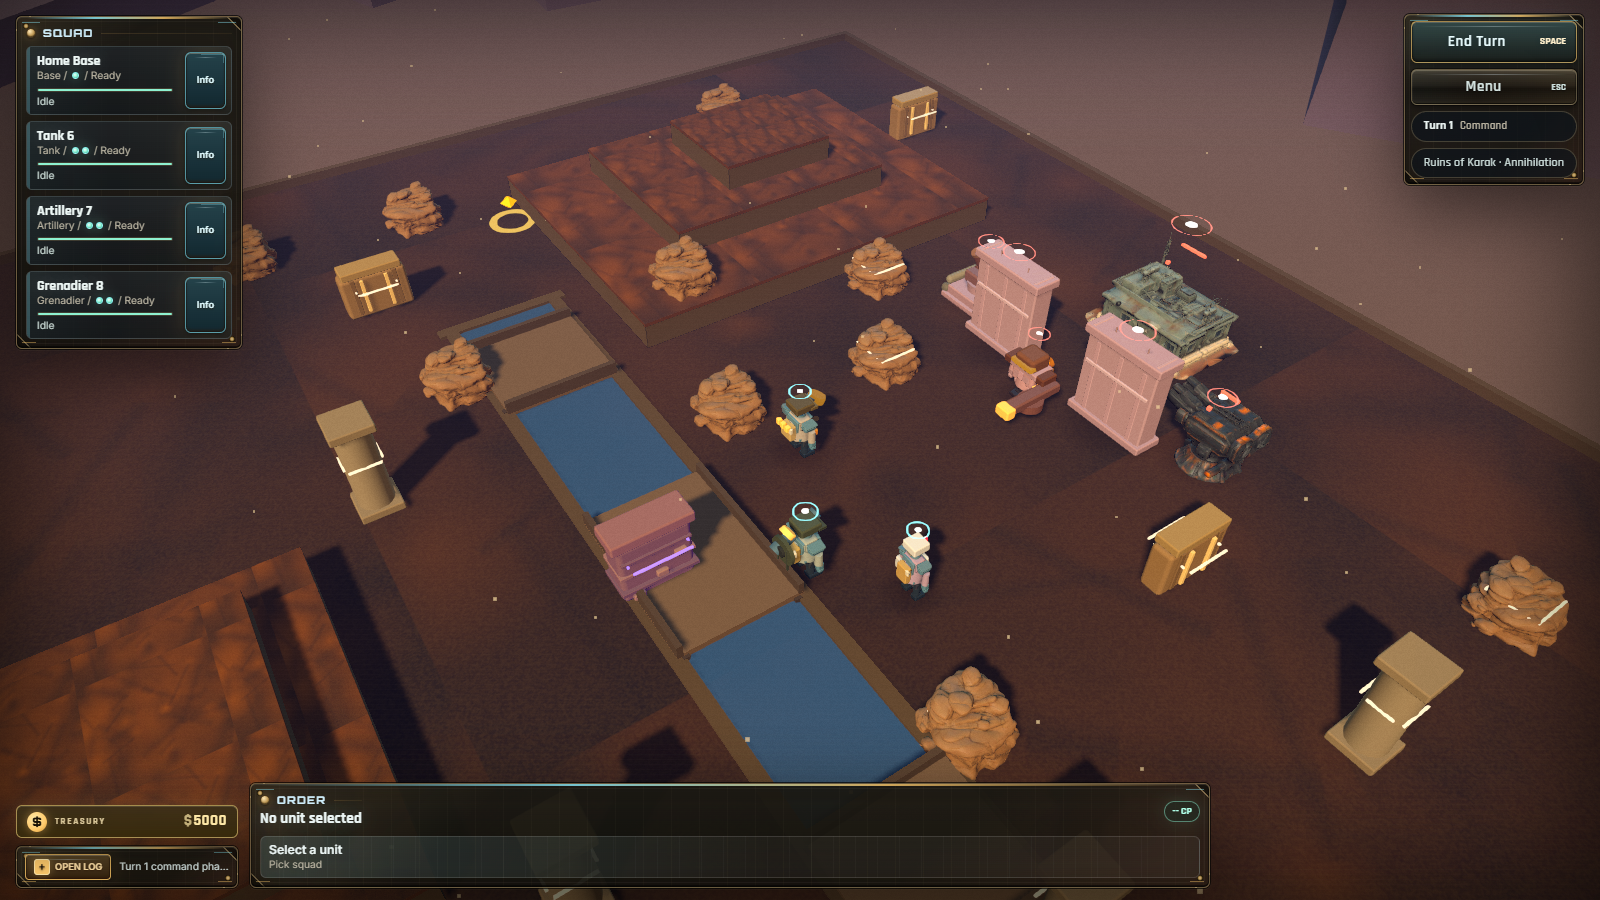
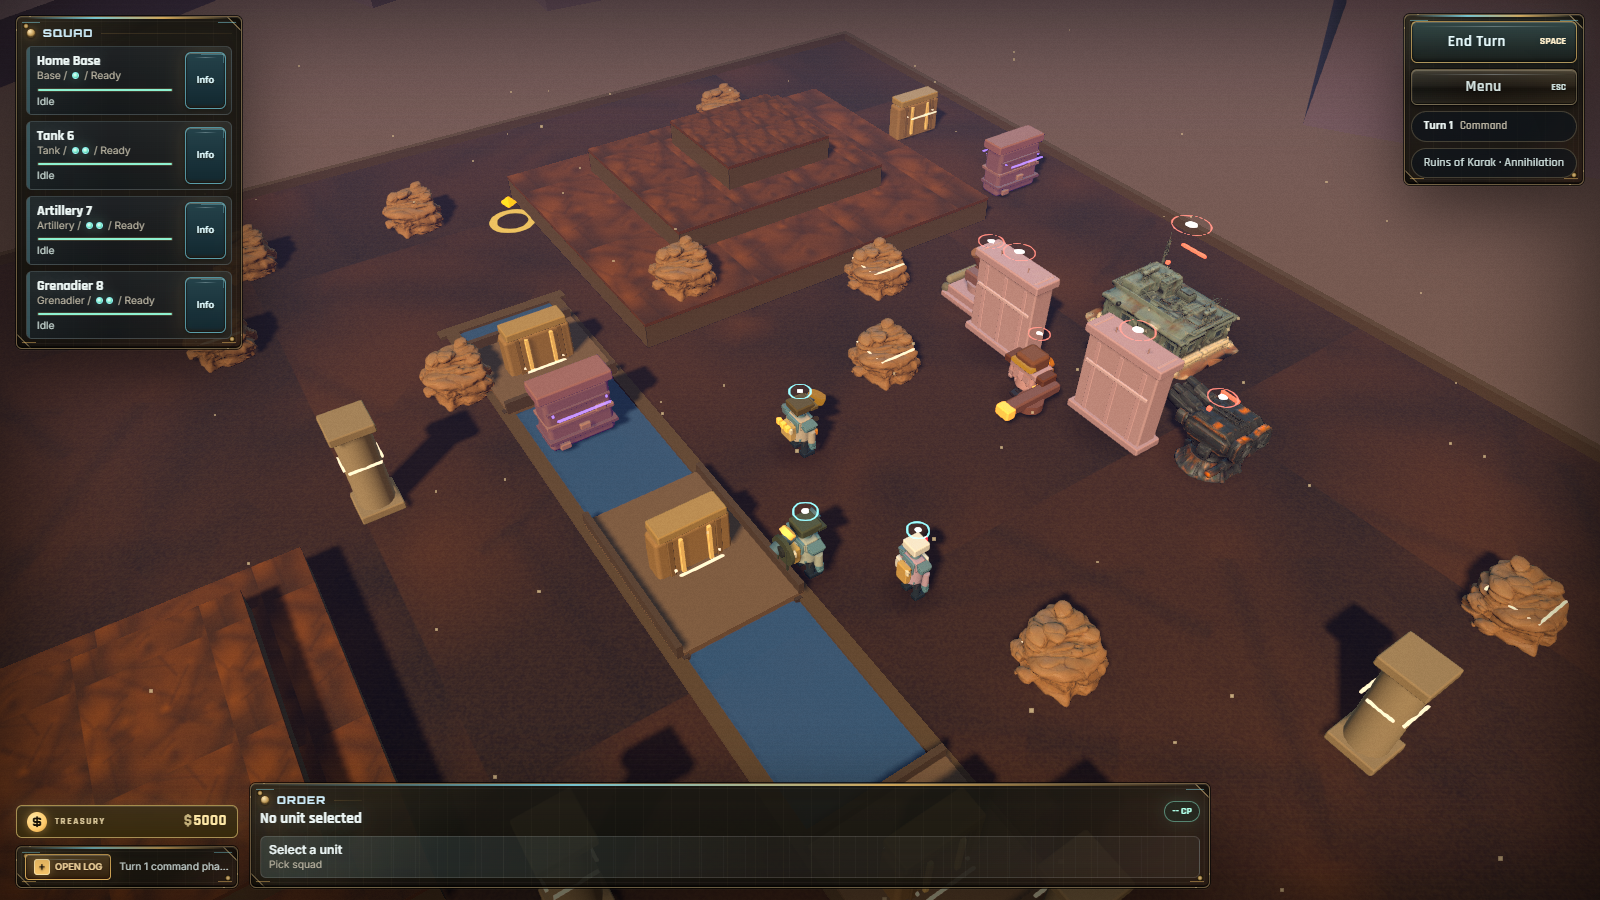
Destructible bridge spans, persisted, with a reachability guarantee
Bridges were pure terrain, so the most consequential destructible on the board
could not be destroyed. Every authored crossing now carries a span entity at its
centre; killing it drops that crossing for the rest of the battle. Ground units on
the far side have to find another way over or be airlifted; flyers never cared.
Spans are neutral, since a bridge belongs to whoever is standing on it, and tough
enough that dropping one is a deliberate investment rather than incidental splash.

The part that needed care is persistence. Terrain is a module singleton rebuilt
from the MapDef, so a destroyed span comes back on reload unless the loss is
recorded and re-applied -- the sim tracks dropped indices, serializes them, and
re-derives the active terrain from "map minus dropped" on configure and restore.
Restoring the list happens BEFORE the terrain is applied, or a reload silently
rebuilds the bridge a player spent a turn destroying. A new battle starts with
every span intact.

A span is walkable ground while it stands, so a unit can be standing on one when
it goes; anything caught in the resulting gap is moved to the nearest dry ground
rather than left in a state the movement rules call unreachable.

reachability.test.ts now drops EACH span on EACH bridged map in turn and re-floods
from the player base, so no crossing can be destroyed into an unwinnable map. That
is the assertion the original suite made about the state a map ships in, extended
[…]

diff --git a/game/src/game/sim.ts b/game/src/game/sim.ts
@@ -462,7 +462,7 @@ export class TacticalSim {
     } else {
       this.mapDef = init?.map ?? MAPS[0];
       this.mode = init?.mode ?? "destroy";
-      setActiveTerrain(this.mapDef.terrain);
+      this.applyTerrain();
       this.entities = createScenario(this.mapDef, this.mode);
     }
     this.modeState = this.buildModeState();
@@ -495,6 +495,53 @@ export class TacticalSim {
     this.factions[team] = faction;
   }
 
+  /**
+   * Bridge spans that have been destroyed this battle, as indices into the map's authored bridge
+   * list. Terrain is a module singleton rebuilt from the MapDef, so a dropped span would come back
+   * on reload unless the loss is recorded here and re-applied -- this is the state that makes
+   * bridge destruction a real, persistent consequence rather than a one-session visual.
+   */
+  private droppedBridges: number[] = [];
+
+  /** Re-derive the active terrain from the map minus whatever spans have been dropped. */
+  private applyTerrain(): void {
+    const authored = this.mapDef.terrain;
+    if (this.droppedBridges.length === 0 || !authored.bridges?.length) {
+      setActiveTerrain(authored);
+      return;
+    }
+    const gone = new Set(this.droppedBridges);
+    setActiveTerrain({ ...authored, bridges: authored.bridges.filter((_, i) => !gone.has(i)) });
+  }
+
+  /**
+   * Drop the bridge span covering a point. Ground units lose that crossing for the rest of the
+   * battle; flyers never cared. Returns the index dropped, or -1 when the point is not on a span.
+   */
+  dropBridgeAt(point: Vec2): number {
+    const bridges = this.mapDef.terrain.bridges ?? [];
+    const index = bridges.findIndex((r, i) =>
+      !this.droppedBridges.includes(i)
+      && point.x >= r.minX && point.x <= r.maxX && point.z >= r.minZ && point.z <= r.maxZ);
+    if (index < 0) return -1;
+    this.droppedBridges.push(index);
+    this.applyTerrain();
+    // Anything standing on the span goes into the water with it.
+    for (const entity of this.entities) {
+      if (!entity.status.alive || entity.flying || entity.kind === "cover") continue;
+      if (!pointInWater(entity.position)) continue;
+      entity.position = nearestDryPoint(entity.position);
+    }
+    this.effect("blast", point, point, 0x8a7f66, 0.9, 2.6);
+    this.pushLog("A bridge span collapses into the channel");
+    return index;
+  }
+
+  /** Which authored bridge spans are gone. */
+  bridgesDropped(): readonly number[] {
+    return this.droppedBridges;
+  }
+
   // `factions` is optional and defaults to PRESERVING the current pick, because configure() also
   // runs on reset() -- passing nothing must not silently drop the player back to the default.
   configure(map: MapDef, mode: ModeId, difficulty: Difficulty = this.difficulty, factions?: Partial<Record<Team, FactionId>>): void {
@@ -503,7 +550,10 @@ export class TacticalSim {
     this.mapDef = map;
     this.mode = mode;
     this.difficulty = difficulty;
-    setActiveTerrain(map.terrain);
+    // A new battle starts with every span intact.
+    this.droppedBridges = [];
+    this.mapDef = map;
+    this.applyTerrain();
     const fresh = createScenario(map, mode);
     this.entities.splice(0, this.entities.length, ...fresh);
     this.modeState = this.buildModeState();
@@ -1653,6 +1703,7 @@ export class TacticalSim {
       mode: this.mode,
       difficulty: this.difficulty,
       factions: this.factions,
+      droppedBridges: this.droppedBridges,
       turn: this.turn,
       economy: [...this.economy],
       entities: this.entities,
@@ -1676,6 +1727,7 @@ export class TacticalSim {
     try {
       const data = JSON.parse(raw) as {
         map: string; mode: ModeId; difficulty?: Difficulty; turn?: number; factions?: Partial<Record<Team, FactionId>>;
+        droppedBridges?: number[];
         economy: [Team, number][]; entities: CombatEntity[]; orders?: TacticalOrder[]; modeState: ModeState; troopSeq?: number;
         detonated?: string[]; toppled?: string[]; overwatch?: [string, number][]; overwatchFacing?: [string, number][];
         wrecked?: string[]; salvage?: [string, number][];
@@ -1684,8 +1736,11 @@ export class TacticalSim {
         pickups?: { id: string; x: number; z: number; amount: number }[];
       };
       const map = mapDef(data.map);
-      setActiveTerrain(map.terrain);
       this.mapDef = map;
+      // Restore dropped spans BEFORE the terrain is applied, or a reload silently rebuilds the
+      // bridge a player spent a turn destroying.
+      this.droppedBridges = (data.droppedBridges ?? []).filter((i) => Number.isInteger(i) && i >= 0);
+      this.applyTerrain();
       this.mode = data.mode;
       this.difficulty = data.difficulty ?? "normal";
       // Rebuilt as a fresh literal rather than assigned: guarantees key order (so serialize output
@@ -2989,6 +3044,13 @@ export class TacticalSim {
     ) {
       this.toppled.add(target.id);
       this.resolveTopple(actor, target);
+    }
+    // A destroyed span takes its crossing with it. This is the most consequential destructible on
+    // the board: ground units on the far side have to find another way across or be airlifted,
+    // and the loss persists through saves.
+    if (target.kind === "cover" && !target.status.alive && target.coverKind === "span" && !this.toppled.has(target.id)) {
+      this.toppled.add(target.id); // reuse the once-only ledger; it already serializes
+      this.dropBridgeAt(target.position);
     }
     // Battlefield scars: a killed vehicle burns out into a wreck — hard neutral cover
     // that also holds salvage money for whichever team parks a unit beside it.

diff --git a/game/src/game/bridges.test.ts b/game/src/game/bridges.test.ts
@@ -1,0 +1,112 @@
+import { afterEach, describe, expect, it } from "vitest";
+import { TacticalSim, mapDef } from "./sim";
+import { DEFAULT_TERRAIN, pointInWater, setActiveTerrain, terrainBridges } from "./terrain";
+
+// Dropping a bridge is the most consequential destructible on the board, and it is the one most
+// likely to break quietly: terrain is a module singleton rebuilt from the MapDef, so a destroyed
+// span comes back on reload unless the loss is recorded and re-applied. These pin that.
+const settle = (sim: TacticalSim): void => {
+  for (let t = 0; t < 40 && sim.phase === "resolve"; t += 0.05) sim.update(0.05);
+};
+
+/** A map with authored bridge crossings. */
+const BRIDGED = "karak";
+
+const staged = (): TacticalSim => {
+  const sim = new TacticalSim();
+  sim.configure(mapDef(BRIDGED), "destroy", "normal");
+  return sim;
+};
+
+describe("bridge spans", () => {
+  afterEach(() => setActiveTerrain(DEFAULT_TERRAIN));
+
+  it("puts a destructible span on every authored crossing", () => {
+    // Bridges used to be pure terrain, so the crossing could not be attacked at all.
+    const sim = staged();
+    const authored = mapDef(BRIDGED).terrain.bridges ?? [];
+    expect(authored.length).toBeGreaterThan(0);
+    const spans = sim.entities.filter((e) => e.coverKind === "span");
+    expect(spans.length).toBe(authored.length);
+    // And each sits on the crossing it represents: a span floating off its own bridge would drop
+    // the wrong one, or nothing.
+    for (const span of spans) {
+      const onABridge = authored.some((r) =>
+        span.position.x >= r.minX && span.position.x <= r.maxX
+        && span.position.z >= r.minZ && span.position.z <= r.maxZ);
+      expect(onABridge, `${span.id} is not on a bridge rect`).toBe(true);
+    }
+  });
+
+  it("a span is walkable ground until it is destroyed, and water afterwards", () => {
+    const sim = staged();
+    const span = sim.entities.find((e) => e.coverKind === "span")!;
+    const at = { ...span.position };
+    expect(pointInWater(at), "the crossing should be passable to begin with").toBe(false);
+
+    const before = terrainBridges().length;
+    expect(sim.dropBridgeAt(at)).toBeGreaterThanOrEqual(0);
+    expect(terrainBridges().length, "the span was not removed from the terrain").toBe(before - 1);
+    expect(pointInWater(at), "the gap left behind should block ground movement").toBe(true);
+  });
+
+  it("refuses to drop the same span twice, or empty water", () => {
+    const sim = staged();
+    const at = { ...sim.entities.find((e) => e.coverKind === "span")!.position };
+    expect(sim.dropBridgeAt(at)).toBeGreaterThanOrEqual(0);
+    expect(sim.dropBridgeAt(at), "dropped the same span twice").toBe(-1);
+    expect(sim.dropBridgeAt({ x: 999, z: 999 }), "dropped a span that is not there").toBe(-1);
+  });
+
+  it("does not leave a unit standing in the gap", () => {
+    // The span was walkable, so a unit can be standing ON it when it goes. Leaving it there puts a
+    // ground unit in water, a state the movement rules say is unreachable.
+    const sim = staged();
+    const span = sim.entities.find((e) => e.coverKind === "span")!;
+    const unit = sim.debugSpawn("soldier", "player", { ...span.position });
+    expect(pointInWater(unit.position)).toBe(false);
+    sim.dropBridgeAt({ ...span.position });
+    expect(pointInWater(unit.position), "a trooper was left standing in the channel").toBe(false);
+  });
+
+  it("keeps the crossing gone across a save and reload", () => {
+    // THE regression this file exists for. Terrain comes from the MapDef, so without persisting the
+    // loss a reload silently rebuilds the bridge a player spent a turn destroying.
+    const sim = staged();
+    const at = { ...sim.entities.find((e) => e.coverKind === "span")!.position };
+    sim.dropBridgeAt(at);
+    expect(sim.bridgesDropped().length).toBe(1);
+
+    const saved = sim.serialize();
+    expect(JSON.parse(saved).droppedBridges).toHaveLength(1);
+
+    const fresh = new TacticalSim();
+    expect(fresh.restore(saved)).toBe(true);
+    expect(fresh.bridgesDropped().length, "the drop did not survive the reload").toBe(1);
+    expect(pointInWater(at), "the bridge came back after loading").toBe(true);
+  });
+
+  it("restores every crossing when a new battle is configured", () => {
+    const sim = staged();
+    sim.dropBridgeAt({ ...sim.entities.find((e) => e.coverKind === "span")!.position });
+    const authored = (mapDef(BRIDGED).terrain.bridges ?? []).length;
+    sim.configure(mapDef(BRIDGED), "destroy", "normal");
+    expect(sim.bridgesDropped().length).toBe(0);
+    expect(terrainBridges().length).toBe(authored);
+  });
+
+  it("drops the crossing when the span is actually shot down", () => {
+    // End to end through the damage funnel rather than by calling dropBridgeAt directly.
+    const sim = staged();
+    const span = sim.entities.find((e) => e.coverKind === "span")!;
+    const at = { ...span.position };
+    const sapper = sim.debugSpawn("sapper", "player", { x: at.x - 3, z: at.z });
+    for (const part of span.parts) part.hp = 1; // this test is about the consequence, not the grind
+    sim.select(sapper.id);
+    expect(sim.queueShoot(span.id)).toBe(true);
+    sim.endTurn();
+    settle(sim);
+    expect(span.status.alive, "the span survived").toBe(false);
+    expect(pointInWater(at), "the span died but the crossing remained").toBe(true);
+  });
+});

diff --git a/game/src/game/scenario.ts b/game/src/game/scenario.ts
@@ -4,14 +4,37 @@ import type { ModeId } from "./modes";
 
 // A battle starts with NO units on the field — only each side's Home Base plus the map's
 // neutral cover and any capturable field structures. Both commanders deploy from turn one.
+/**
+ * A destructible span on every authored bridge crossing.
+ *
+ * Bridges were pure terrain, so there was nothing to shoot: the most consequential destructible on
+ * the board could not be destroyed. Each authored bridge rect now carries one span entity at its
+ * centre; killing it drops the crossing for the rest of the battle (see TacticalSim.dropBridgeAt).
+ * The entity is neutral -- a bridge belongs to whoever is standing on it.
+ */
+function createBridgeSpans(map: MapDef): CombatEntity[] {
+  const spans: CombatEntity[] = [];
+  const bridges = map.terrain.bridges ?? [];
+  for (let i = 0; i < bridges.length; i += 1) {
+    const r = bridges[i];
+    spans.push(createCover(
+      `span-${map.id}-${i}`,
+      "Bridge Span",
+      { x: (r.minX + r.maxX) / 2, z: (r.minZ + r.maxZ) / 2 },
+      { coverKind: "span" },
+    ));
+  }
+  return spans;
+}
+
 export function createScenario(map: MapDef = MAPS[0], mode: ModeId = "destroy"): CombatEntity[] {
   const playerBase = createBase("p-base-1", "Home Base", "player", { ...map.playerBase });
   // Last Stand has no enemy base — the threat is the waves themselves.
-  if (mode === "survival") return [playerBase, ...buildMapObjects(map), ...buildNeutralStructures(map)];
+  if (mode === "survival") return [playerBase, ...buildMapObjects(map), ...buildNeutralStructures(map), ...createBridgeSpans(map)];
   const enemyBase = createBase("e-base-1", "Relay Base", "enemy", { ...map.enemyBase });
   // The enemy commander begins with one doctrine researched so it can field variety early.
   enemyBase.unlockedTech = ["assault"];
-  return [playerBase, enemyBase, ...buildMapObjects(map), ...buildNeutralStructures(map)];
+  return [playerBase, enemyBase, ...buildMapObjects(map), ...buildNeutralStructures(map), ...createBridgeSpans(map)];
 }
 
 // Capturable neutral structures: derelict turrets and supply depots that flip to the

diff --git a/game/src/game/reachability.test.ts b/game/src/game/reachability.test.ts
@@ -1,5 +1,6 @@
 import { afterEach, describe, expect, it } from "vitest";
-import { MAPS } from "./maps";
+import { MAPS, mapDef } from "./maps";
+import { TacticalSim } from "./sim";
 import { DEFAULT_TERRAIN, TERRAIN_STEP, pointInWater, setActiveTerrain, terrainHeightAt } from "./terrain";
 
 // REACHABILITY.
@@ -97,3 +98,36 @@ describe("every map is winnable on foot", () => {
     });
   }
 });
+
+// DESTRUCTIBLE TERRAIN must not be able to make a map unwinnable. A player (or the AI) can drop any
+// bridge span, and every authored crossing is therefore a way to change the map's connectivity
+// mid-battle. This floods again after removing each span in turn -- the same assertion as above, but
+// for every state the map can actually reach rather than only the state it ships in.
+describe("dropping a bridge never strands a base", () => {
+  afterEach(() => setActiveTerrain(DEFAULT_TERRAIN));
+
+  for (const map of MAPS.filter((m) => (m.terrain.bridges?.length ?? 0) > 0)) {
+    const spans = map.terrain.bridges ?? [];
+    for (let index = 0; index < spans.length; index += 1) {
+      it(`${map.id}: span ${index} can be destroyed`, () => {
+        const sim = new TacticalSim();
+        sim.configure(mapDef(map.id), "destroy", "normal");
+        const rect = spans[index];
+        const dropped = sim.dropBridgeAt({ x: (rect.minX + rect.maxX) / 2, z: (rect.minZ + rect.maxZ) / 2 });
+        expect(dropped, "the span could not be dropped").toBeGreaterThanOrEqual(0);
+
+        const { seen, key } = flood(map);
+        const reachable = (p: { x: number; z: number }): boolean => {
+          for (let dx = -2; dx <= 2; dx += 1) {
+            for (let dz = -2; dz <= 2; dz += 1) {
+              if (seen.has(key({ x: p.x + dx * STEP * 4, z: p.z + dz * STEP * 4 }))) return true;
+            }
+          }
+          return false;
+        };
+        expect(reachable(map.enemyBase), `${map.id}: dropping span ${index} strands the enemy base`).toBe(true);
+      });
+    }
+  }
+});
+

diff --git a/game/src/game/maps.ts b/game/src/game/maps.ts
@@ -185,7 +185,13 @@ export function buildMapObjects(map: MapDef): CombatEntity[] {
     for (const o of placed) {
       if (dist(p, o) < o.r + r) return true;
     }
-    return steepHere(p) || pointInWater(p); // never drop cover into a water channel
+    // Never into a water channel, and never ONTO A CROSSING. Bridges are not water -- they are the
+    // walkable strip over it -- so scatter happily dropped crates on them, which both collided with
+    // the destructible span entity now sitting there and blocked the chokepoint the bridge exists to
+    // create. A crossing should be an open lane, contested by units rather than furniture.
+    if (steepHere(p) || pointInWater(p)) return true;
+    return (map.terrain.bridges ?? []).some((b) =>
+      p.x >= b.minX - r && p.x <= b.maxX + r && p.z >= b.minZ - r && p.z <= b.maxZ + r);
   };
 
   const add = (kind: CoverKind, p: Vec2): void => {
@@ -512,7 +518,10 @@ const RAW_MAPS: readonly MapDef[] = [
     signature: [
       { kind: "pillar", x: -5.5, z: 4.5, mirror: true },
       { kind: "pillar", x: -5.5, z: -4.5, mirror: true },
-      { kind: "cliff", x: -9, z: 0, mirror: true },
+      // Moved off z=0: the flooded ravine added to this map runs through x=-11..-8.5, and its
+      // centre crossing now sits here. A cliff face 0.9 units from a bridge span both overlapped it
+      // and walled off the very chokepoint the crossing exists to create.
+      { kind: "cliff", x: -9.5, z: 4.2, mirror: true },
       { kind: "rubble", x: -8, z: 7, mirror: true },
       { kind: "pillar", x: -10.5, z: -8.5, mirror: true },
       { kind: "rock", x: -16, z: 2.5, mirror: true },

diff --git a/game/src/game/damageModel.ts b/game/src/game/damageModel.ts
@@ -24,7 +24,8 @@ export type CoverKind =
   | "container"
   | "bunker"
   | "wreck"
-  | "depot";
+  | "depot"
+  | "span";
 export type PartRole = "core" | "head" | "weapon" | "mobility" | "armor" | "utility" | "volatile";
 export type AimMode = "center" | "head" | "weapon" | "mobility" | "utility" | "core" | "weakest";
 export type InfantryStance = "standing" | "crouched" | "prone";
@@ -795,6 +796,10 @@ export const COVER_PROFILES: Record<CoverKind, CoverProfile> = {
   wreck: { hp: 70, radius: 1.05, height: 0.95, volatile: false, label: "Burnt Wreck" },
   // Capturable supply depot: pays income each turn to whichever team holds it.
   depot: { hp: 110, radius: 1.1, height: 1.4, volatile: false, label: "Supply Depot" },
+  // A bridge span. Tough enough that dropping one is a deliberate investment rather than
+  // incidental splash damage, and low enough that it never blocks a shot across the crossing it
+  // carries. Destroying it removes the crossing for the rest of the battle.
+  span: { hp: 150, radius: 1.0, height: 0.5, volatile: false, label: "Bridge Span" },
 };
 
 export function createCover(id: string, name: string, position: Vec2, options: boolean | CoverOptions = false): CombatEntity {
